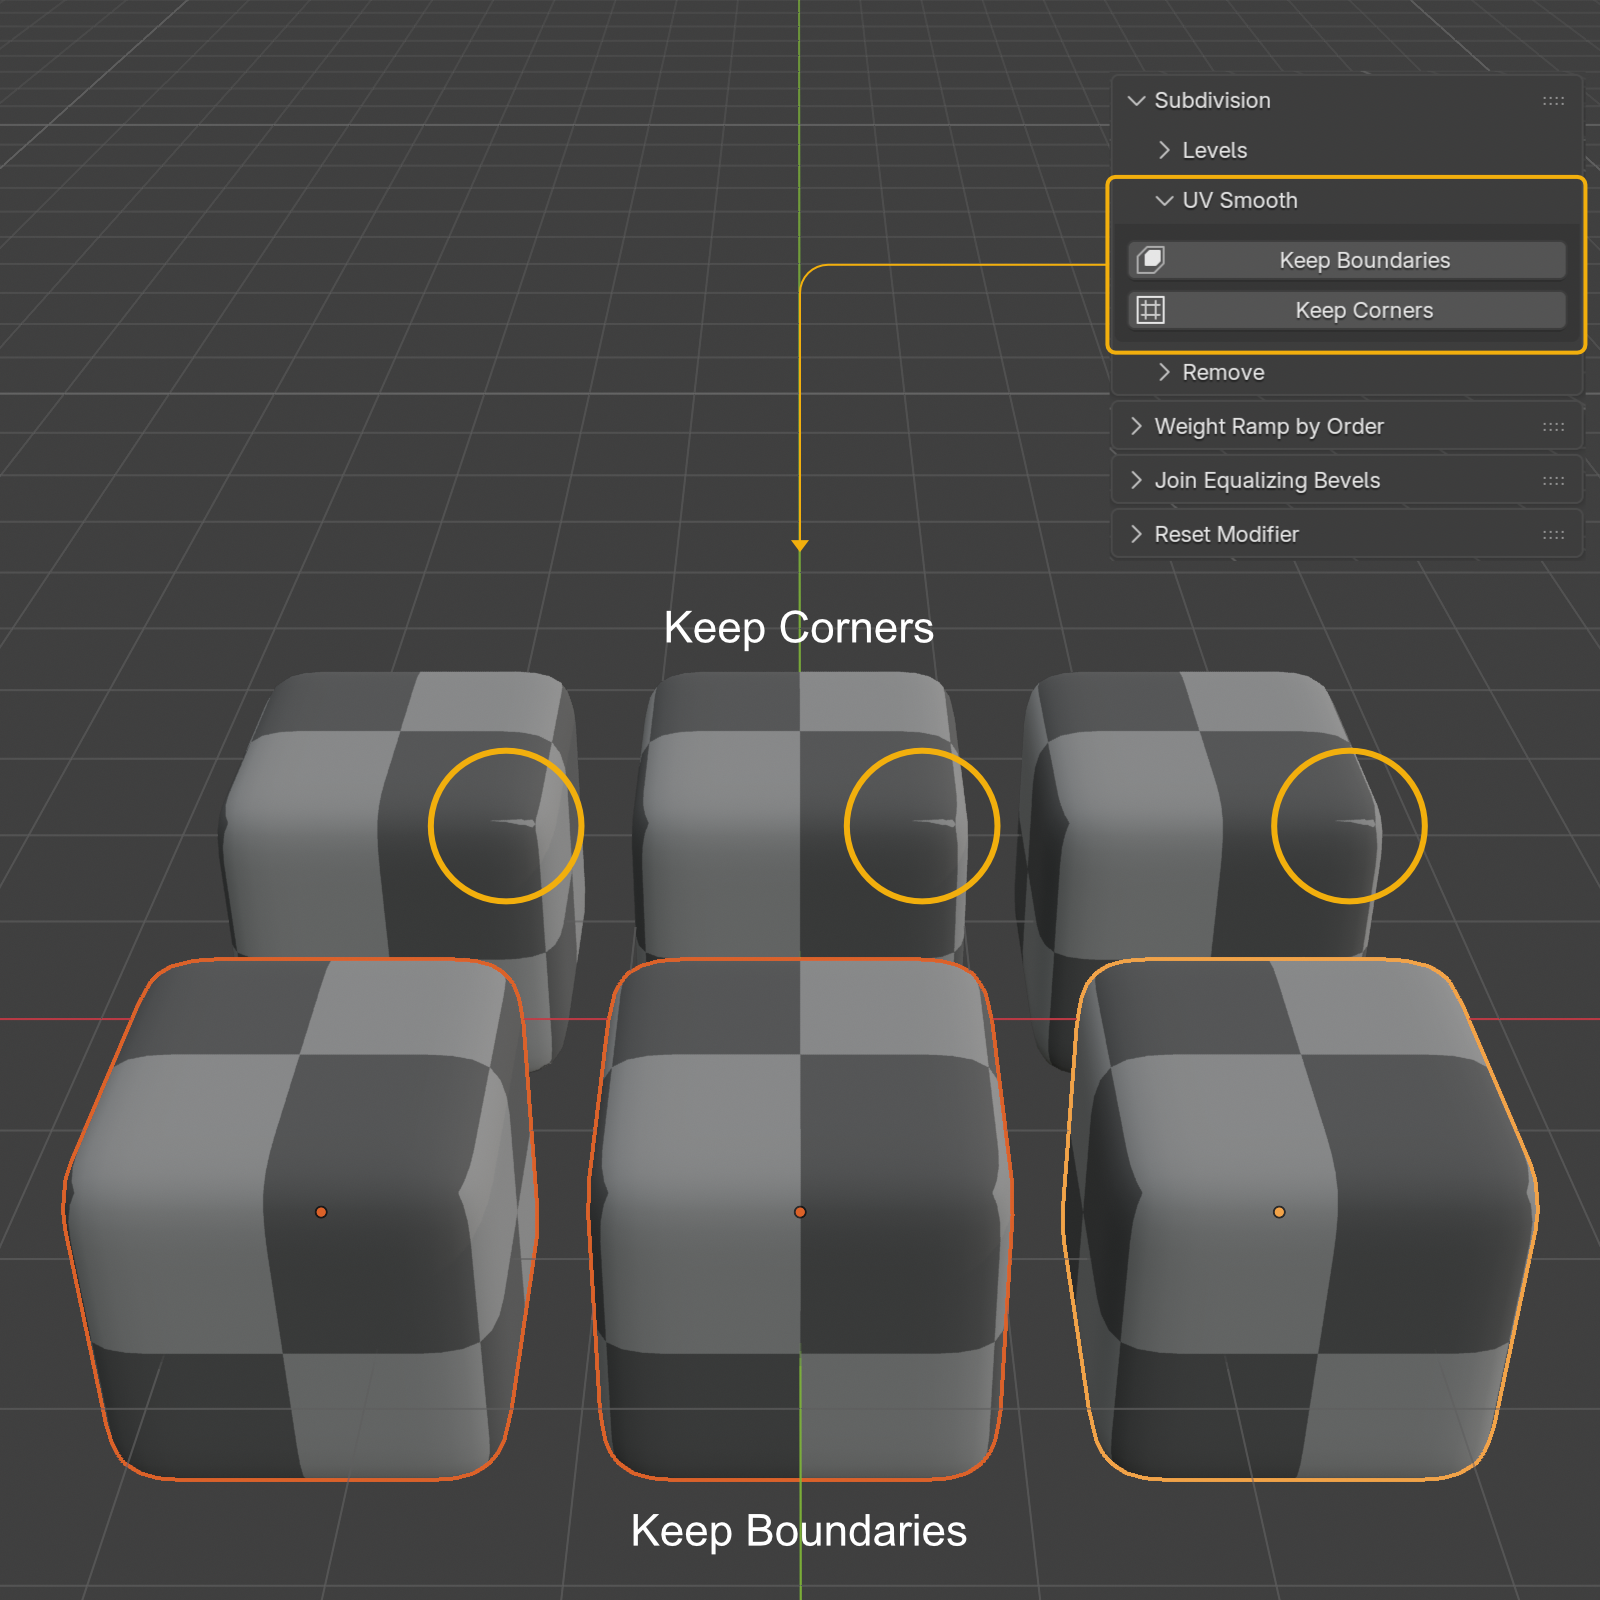
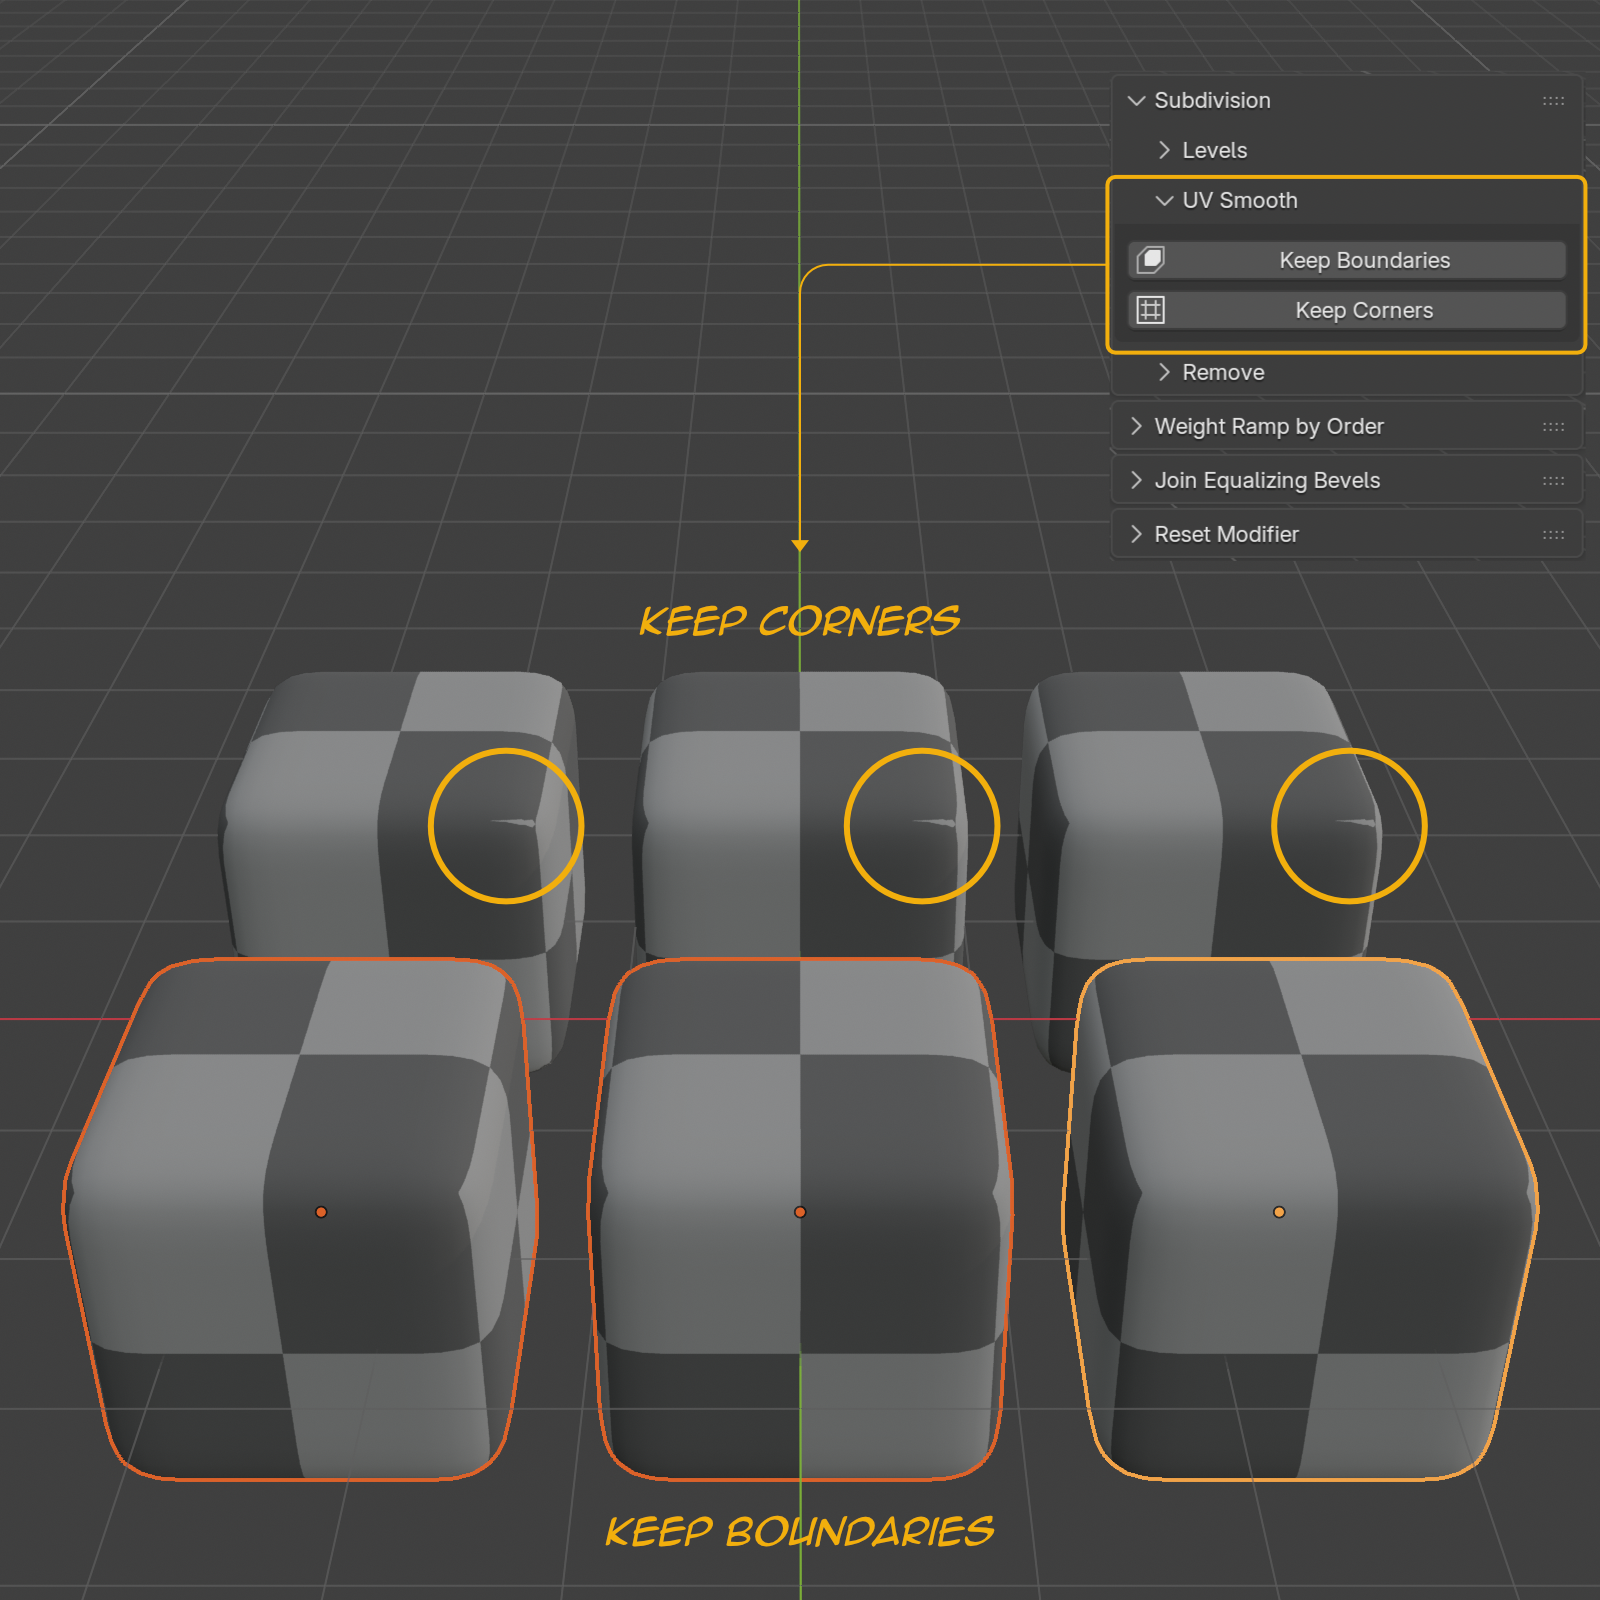
Update images for Readme

Changed region(s): [[0.375, 0.9375, 0.625, 0.9688], [0.4062, 0.375, 0.5938, 0.4062]]

diff --git a/etr_blender_tools_docs/README.md b/etr_blender_tools_docs/README.md
@@ -84,12 +84,12 @@ Adds four small toggle buttons to the Asset Browser header to see and change the
 - **Tool name:** Batch Operate Attributes
 - **Location:** 3D Viewport (Object Mode) › Right-Click › Eterea Tools, and Outliner › Right-Click › Eterea Tools
 
-![](images/batch_operate_attributes_ui.png)
-
 Two commands to manage an attribute on many objects at once. They work on **Mesh**, **Curves** (the hair / Geometry Nodes curves) and **Point Cloud** objects, and are only shown when at least one of them is selected. (Legacy Bezier / NURBS Curve objects have no generic attributes, so they are ignored.)
 
 - **Rename Attribute on Selected Objects:** pick the current name and type the new one. The attribute is renamed on every selected object that has it. If an object already has an attribute with the new name, it is skipped, so nothing is ever overwritten.
 - **Delete Attribute on Selected Objects:** pick the name. The attribute is removed from every selected object that has it.
+
+![](images/batch_operate_attributes_ui.png)
 
 Clicking the name field opens a **searchable list of the attributes found on the selected objects**, with their domain, type and on how many of the selected objects each one exists (for example *Point · Float · 3 of 4*). Typing filters the list, and any other name can still be typed. Internal attributes (names starting with a dot) are not listed.
 
@@ -101,14 +101,14 @@ A message in the status bar reports how many objects were changed, how many were
 - **Tool name:** Change Color Space
 - **Location:** Shader Editor › Right-Click › Eterea Tools
 
-![](images/change_color_space_ui.png)
-
 Two commands set the Color Space of the images used by the selected *Image Texture* nodes:
 
 - **Color Space to Non-Color** (for data maps: roughness, normal, displacement...)
 - **Color Space to sRGB** (for color maps)
 
 How to use it: select one or several *Image Texture* nodes, right-click in the Shader Editor and choose the command from **Eterea Tools**. It also works inside node groups. Nodes without an image are ignored, and a message reports how many images were changed.
+
+![](images/change_color_space_ui.png)
 
 Note: the Color Space belongs to the image itself, so any other node using the same image is affected too. If your OCIO configuration has no color space with that exact name (for example a custom ACES configuration), nothing is changed and an error message tells you so.
 
@@ -138,9 +138,9 @@ Two buttons, **Keep Boundaries** and **Keep Corners**, set the *UV Smooth* optio
 - **Tool name:** Copy Viewport Color
 - **Location:** 3D Viewport › Object › Link/Transfer Data (`Ctrl+L` / `Cmd+L`) › Copy Viewport Color
 
-![](images/copy_viewport_color_ui.png)
-
 Copies the **Viewport Display › Color** of the active object to all the other selected objects, whatever their type. Select the targets first and the source object last (so it is the active one).
+
+![](images/copy_viewport_color_ui.png)
 
 If a future Blender version renames the *Link/Transfer Data* menu, the command automatically moves to the 3D Viewport right-click menu instead.
 
@@ -155,6 +155,8 @@ Creates a Vertex Group whose weights follow the **order in which you select the 
 1. Go into Edit Mode on a mesh, in Vertex Select mode.
 2. Click the first vertex, then `Shift`+click the rest one by one, in the order you want.
 3. Click **Create Weight Ramp**.
+
+![](images/create_weight_ramp_ui.png)
 
 A new Vertex Group named **ETR VertSelOrder 000** (then 001, 002...) is created, with weights ramping linearly from 0 (first vertex selected) to 1 (last vertex selected). The object then switches to Weight Paint Mode so you can see the result. Useful, for example, to drive effects along a path of vertices.
 
@@ -174,11 +176,17 @@ Sets the background color of the selected nodes and frames from a palette of 20 
 
 The tooltip of each swatch shows the name of its color on the second line (*Dark* + name for row 2).
 
+![](images/custom_color_nodes_ui_01.png)
+
 Below the swatches:
 
 - **Color:** live color picker; any change is applied right away to the selected nodes and frames.
 - **Copy from Active:** copies the color of the active node or frame to all the selected ones.
 - **Disable:** turns the custom color off on the selected nodes and frames.
+
+![](images/custom_color_nodes_ui_02.png)
+
+![](images/custom_color_nodes_ui_03.png)
 
 In the Preferences, **Reset Values** restores the 10 original colors and their names, the default Saturation and Value, and the default Vertical Offset. All values are stored in the Preferences, so they persist between sessions. The shortcut of the floating palette and its **Vertical Offset** (how many pixels above the mouse pointer it opens, so it does not cover the nodes; negative values move it down) can also be changed there.
 
